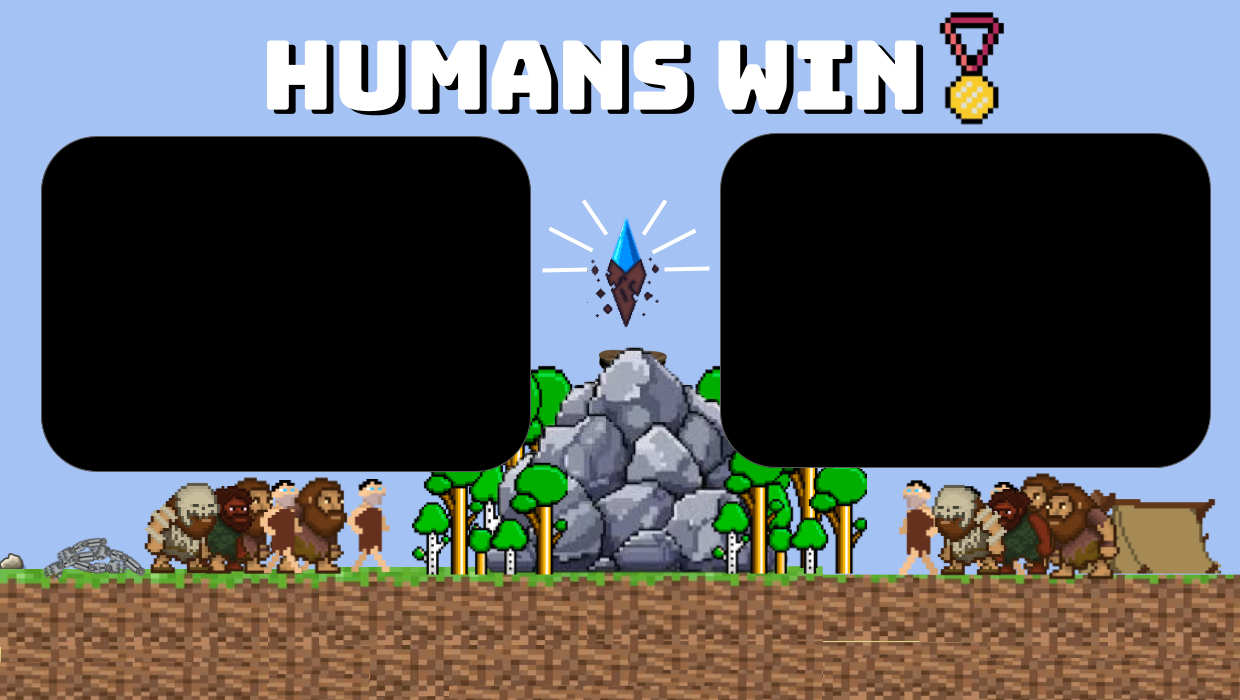
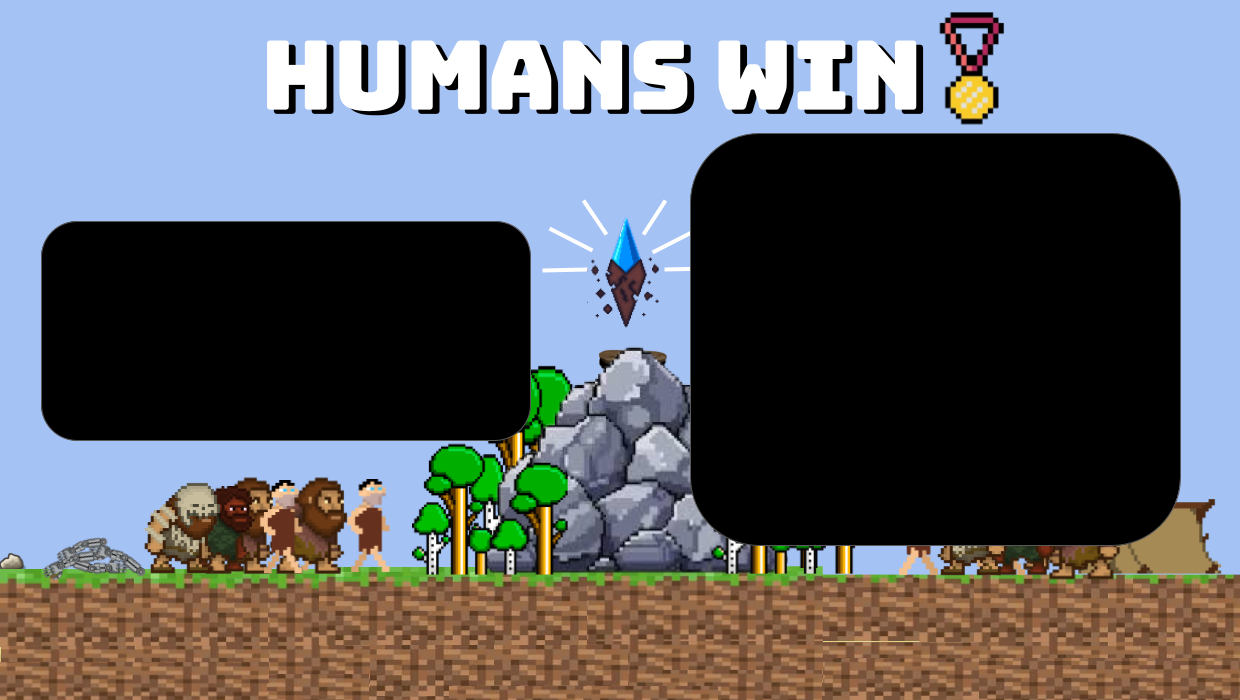
Changed Images

diff --git a/EndSimWorld.java b/EndSimWorld.java
@@ -39,6 +39,8 @@ public class EndSimWorld extends World {
         int robotCash = Units.getRobotCash();
         int humansSpawned = Human.totalHumansSpawned;
         int robotsSpawned = Robot.totalRobotsSpawned;
+        int robotsKilled = Units.robotsDead;
+        int humansKilled = Units.humansDead;
 
         // Define boxes
         int leftBoxXStart = 120;
@@ -50,29 +52,31 @@ public class EndSimWorld extends World {
         int boxHeight = 330;
 
         // Center X positions
-        int leftBoxCenterX = (leftBoxXStart + leftBoxXEnd) / 2;
-        int rightBoxCenterX = (rightBoxXStart + rightBoxXEnd) / 2;
+        int leftBoxCenterX = (leftBoxXStart + leftBoxXEnd) / 2 - 10;
+        int rightBoxCenterX = (rightBoxXStart + rightBoxXEnd) / 2 -10;
 
         // Left box: Simulation time
         showText("Simulation Time: " + roundedSeconds + " seconds", leftBoxCenterX, boxYStart + boxHeight / 2);
 
         // Right box: Human & Robot stats
-        int humanLineSpacing = 40; // smaller spacing between lines
-        int robotLineSpacing = 40;
+        int humanLineSpacing = 35; // smaller spacing between lines
+        int robotLineSpacing = 35;
 
         int startY = boxYStart + 30; // starting Y for right box text
 
         // Human stats
         showText("Human Stats", rightBoxCenterX, startY);
-        showText("Humans Spawned: " + humansSpawned, rightBoxCenterX, startY + humanLineSpacing);
-        showText("Human Cash Earned: $" + humanCash, rightBoxCenterX, startY + humanLineSpacing * 2);
-
+        showText("Total Humans Spawned: " + humansSpawned, rightBoxCenterX, startY + humanLineSpacing);
+        showText("Number of Robots Killed: " + robotsKilled, rightBoxCenterX, startY + humanLineSpacing * 2);
+        showText("Human Cash Earned: $" + humanCash, rightBoxCenterX, startY + humanLineSpacing * 3);
+        
         // Leave a space between Human and Robot stats
-        int robotStartY = startY + humanLineSpacing * 3 + 20; // 20 px extra space
+        int robotStartY = startY + humanLineSpacing * 3 + 80; // 50 px extra space
 
         showText("Robot Stats", rightBoxCenterX, robotStartY);
-        showText("Robots Spawned: " + robotsSpawned, rightBoxCenterX, robotStartY + robotLineSpacing);
-        showText("Robot Cash Earned: $" + robotCash, rightBoxCenterX, robotStartY + robotLineSpacing * 2);
+        showText("Total Robots Spawned: " + robotsSpawned, rightBoxCenterX, robotStartY + robotLineSpacing);
+        showText("Number of Humans killed: " + humansKilled, rightBoxCenterX, robotStartY + robotLineSpacing*2);
+        showText("Robot Cash Earned: $" + robotCash, rightBoxCenterX, robotStartY + robotLineSpacing * 3);
     }
 }
 
